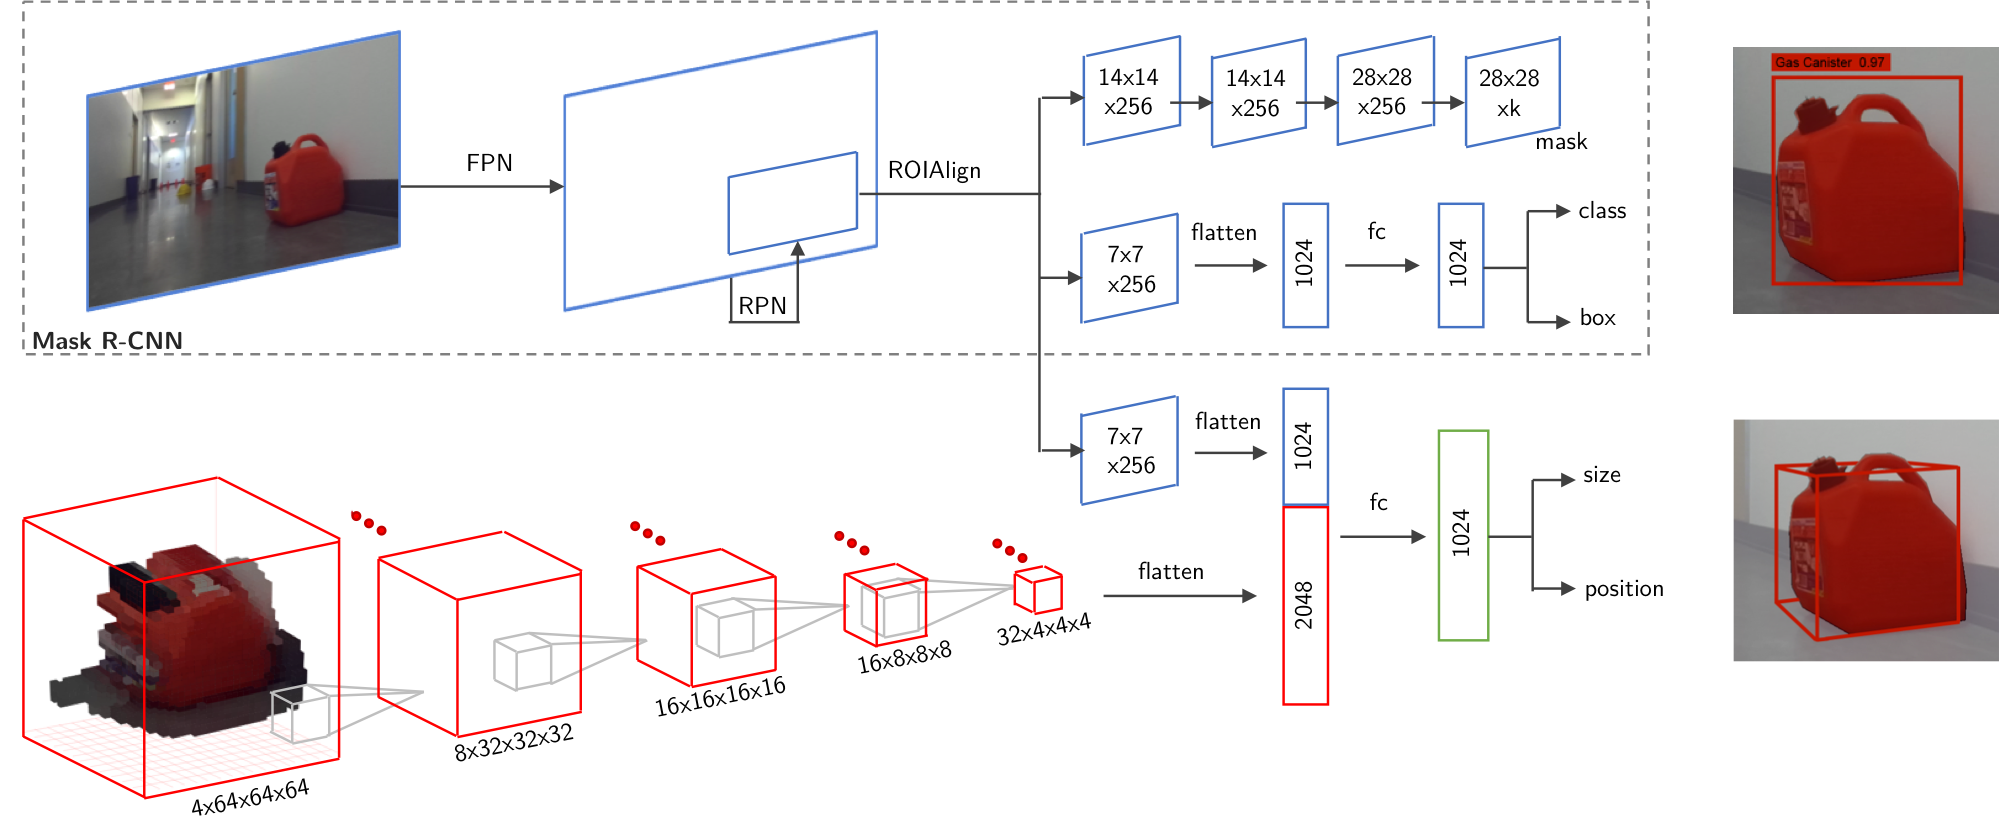
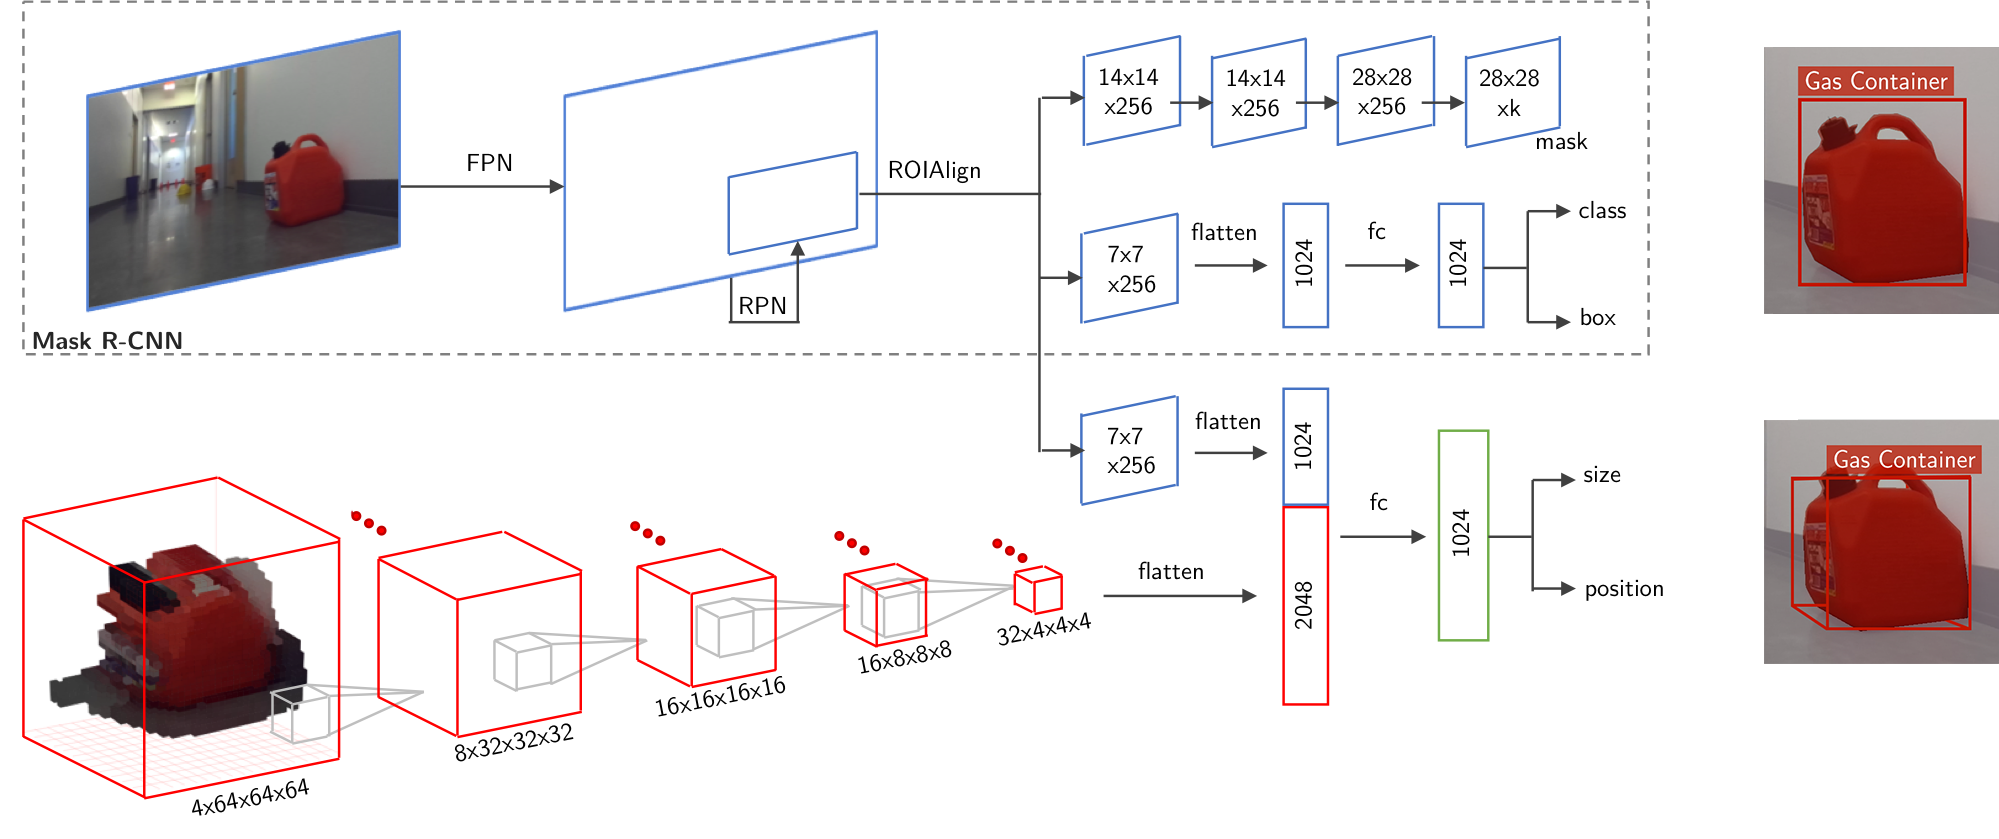
Minor spelling corrections

Changed region(s): [[0.8684, 0.031, 1.0, 0.3719], [0.8684, 0.4958, 1.0, 0.8057]]

diff --git a/src/method/index.html b/src/method/index.html
@@ -22,6 +22,7 @@
         <section class="mdc-toolbar__section mdc-toolbar__section--align-end">
           <div>
             <nav id="toolbar-tab-bar" class="mdc-tab-bar custom-tab-bar-in-toolbar mdc-tab-bar-upgraded">
+              <a class="mdc-tab mdc-ripple-upgraded" href="/">Overview</a>
               <a class="mdc-tab mdc-ripple-upgraded mdc-tab mdc-ripple-upgraded mdc-tab mdc-ripple-upgraded--foreground-activation mdc-tab--active" href="/method">Method</a>
               <a class="mdc-tab mdc-ripple-upgraded" href="/results">Results</a>
               <a class="mdc-tab mdc-ripple-upgraded" href="/robot">Robot</a>
@@ -79,7 +80,7 @@
             The core component of the proposed system is a computer vision algorithm which we refer to as Object R&#8209;CNN. Object R-CNN is designed to classify and localize objects of interest, using images captured by a camera on the mobile robot. We notice that 2D object detectors can easily detect a range of worksite objects, using RGB images:
           </p>
 
-          <!-- Figure 2: Theoretical framework -->
+          <!-- Figure 2: Mask R-CNN Results -->
           <div class="mdc-layout-grid">
             <div class="mdc-layout-grid__inner">
               <div class="mdc-card figure-card mdc-layout-grid__cell mdc-layout-grid__cell--span-8 mdc-shadow--2dp">
@@ -129,6 +130,24 @@
           </div>
 
           <p class="mdc-typography--body1">
+            Detections from Object R-CNN look similar to those from Mask R-CNN, but the position and size of each object in 3D space is also predicted.
+          </p>
+
+          <!-- Figure 2: Object R-CNN Results -->
+          <div class="mdc-layout-grid">
+            <div class="mdc-layout-grid__inner">
+              <div class="mdc-card figure-card mdc-layout-grid__cell mdc-layout-grid__cell--span-8 mdc-shadow--2dp">
+                <figure class="mdc-card__media">
+                  <img src="images/boxes3d.png" alt="The theoretical framework" />
+                </figure>
+                <div class="caption">
+                  <p class="mdc-typography--body2 mdc-typography--caption">3D object detection and 2D instance segmentation with the Object R&#8209;CNN object detector.</p>
+                </div>
+              </div>
+            </div>
+          </div>
+
+          <p class="mdc-typography--body1">
             When deployed to the mobile robot, the trained system can be used to detect objects, and automatically add them to a geometric model of the environment
           </p>
 
@@ -167,9 +186,9 @@
           <!-- Figure 6: <! Association -->
           <div class="mdc-layout-grid">
             <div class="mdc-layout-grid__inner">
-              <div class="mdc-card figure-card mdc-layout-grid__cell mdc-layout-grid__cell--span-12 mdc-shadow--2dp">
+              <div class="mdc-card figure-card mdc-layout-grid__cell mdc-layout-grid__cell--span-8 mdc-shadow--2dp">
                 <figure class="mdc-card__media">
-                  <img src="images/association.png" alt="The theoretical framework" />
+                  <img src="images/association-column.png" alt="The theoretical framework" />
                 </figure>
                 <div class="caption">
                   <p class="mdc-typography--body2 mdc-typography--caption">

diff --git a/src/index.html b/src/index.html
@@ -36,6 +36,7 @@
         <section class="mdc-toolbar__section mdc-toolbar__section--align-end">
           <div>
             <nav id="toolbar-tab-bar" class="mdc-tab-bar custom-tab-bar-in-toolbar mdc-tab-bar-upgraded">
+              <a class="mdc-tab mdc-ripple-upgraded mdc-ripple-upgraded--foreground-activation mdc-tab--active" href="/">Overview</a>
               <a class="mdc-tab mdc-ripple-upgraded" href="/method">Method</a>
               <a class="mdc-tab mdc-ripple-upgraded" href="/results">Results</a>
               <a class="mdc-tab mdc-ripple-upgraded" href="/robot">Robot</a>
@@ -69,7 +70,7 @@
           Automation in construction and facility management could significantly improve efficiency and productivity throughout the lifecycle of modern facilities. However, for robots and autonomous systems to operate in effectively in dynamic and unstructured environments such as a construction sites, they must be able to infer or obtain a semantic model of the environment.
         </p>
         <p class="mdc-typography--body1">
-          Previous efforts in Civil Engineering and Robotics have focused on developing static maps of the environment, often neglecting the possibility that objects can be moved. This project investigates how information from mobile robots can be used to dynamically update an existing model of the building environment with semantic-rich information. We develop a new 2D-3D computer vision to detect and localize common worksite objects, using RGB&#8209;D frames. We then propose using a multi-object Kalman filter to track objects across successive RGB-D frames to filter false-positive detections and refine position estimates.
+          Previous efforts in Civil Engineering and Robotics have focused on developing static maps of the environment, often neglecting the possibility that objects can be moved. This project investigates how information from mobile robots can be used to dynamically update an existing model of the building environment with semantic-rich information. We propose Object R-CNN, a new 2D-3D computer vision algorithm to detect and localize common worksite objects, using RGB&#8209;D frames. We then propose using a multi-object Kalman filter to track objects across successive RGB-D frames, allowing false-positive detections to be ignored and position estimates to be refined.
         </p>
       <section>
 
@@ -84,7 +85,7 @@
 
         <h2 class="demo-title mdc-typography--headline5">Source Code</h2>
         <p class="mdc-typography--body1">
-          SurfaceNet Source Code [<a href="#" title="Automation in Construction Paper">Coming Soon</a>]<br>
+          Object R-CNN Source Code [<a href="#" title="Automation in Construction Paper">Coming Soon</a>]<br>
           Mobile Robot Source Code [<a href="#" title="Automation in Construction Paper">Coming Soon</a>]<br>
       </section>
 

diff --git a/src/dataset/index.html b/src/dataset/index.html
@@ -23,10 +23,11 @@
         <section class="mdc-toolbar__section mdc-toolbar__section--align-end">
           <div>
             <nav id="toolbar-tab-bar" class="mdc-tab-bar custom-tab-bar-in-toolbar mdc-tab-bar-upgraded">
+              <a class="mdc-tab mdc-ripple-upgraded" href="/">Overview</a>
               <a class="mdc-tab mdc-ripple-upgraded" href="/method">Method</a>
               <a class="mdc-tab mdc-ripple-upgraded" href="/results">Results</a>
               <a class="mdc-tab mdc-ripple-upgraded" href="/robot">Robot</a>
-              <a class="mdc-tab mdc-ripple-upgraded mdc-tab mdc-ripple-upgraded mdc-tab mdc-ripple-upgraded--foreground-activation mdc-tab--active" href="/dataset">Dataset</a>
+              <a class="mdc-tab mdc-ripple-upgraded mdc-ripple-upgraded--foreground-activation mdc-tab--active" href="/dataset">Dataset</a>
               <span class="mdc-tab-bar__indicator"></span>
             </nav>
           </div>
@@ -40,9 +41,9 @@
           <div class="demo-content mdc-color--white mdc-shadow--4dp content mdc-color-text--grey-800 mdc-cell mdc-layout-grid__cell--span-12">
             <h1 class="demo-title mdc-typography--headline4">Dataset</h1>
             <p class="mdc-typography--body1">
-              A dataset was collected using the purpose-built mobile robot. The dataset includes 6121 RGB-D labelled objects across 1007 images. Objects are labelled with 2D segmentation masks and 3D bounding boxes.
+              A dataset was collected using the purpose-built mobile robot. The dataset includes 6121 RGB-D labeled objects across 1007 images. Objects are labeled with 2D segmentation masks and 3D bounding boxes.
             </p><p class="mdc-typography--body1">
-              The dataset is split into test and train sequences. The training sequence contains 5121 objects labelled across 821 RGB-D images. The test set consists of a further 1010 objects annotated across 186 images.
+              The dataset is split into test and train sequences. The training sequence contains 5121 objects labeled across 821 RGB-D images. The test set consists of a further 1010 objects annotated across 186 images.
             </p>
 
             <div class="mdc-layout-grid">

diff --git a/src/results/index.html b/src/results/index.html
@@ -29,6 +29,7 @@
         <section class="mdc-toolbar__section mdc-toolbar__section--align-end">
           <div>
             <nav id="toolbar-tab-bar" class="mdc-tab-bar custom-tab-bar-in-toolbar mdc-tab-bar-upgraded">
+              <a class="mdc-tab mdc-ripple-upgraded" href="/">Overview</a>
               <a class="mdc-tab mdc-ripple-upgraded" href="/method">Method</a>
               <a class="mdc-tab mdc-ripple-upgraded mdc-tab mdc-ripple-upgraded--foreground-activation mdc-tab--active" href="/results">Results</a>
               <a class="mdc-tab mdc-ripple-upgraded" href="/robot">Robot</a>
@@ -45,7 +46,7 @@
         <h1 class="mdc-typography--headline4">Results</h1>
         <p class="mdc-typography--body1">
           The proposed system is evaluated qualitatively and quantitatively.
-          One of the core compoments is an novel 3D object detection method, named Object R-CNN.
+          One of the core components is an novel 3D object detection method, namely Object R-CNN.
           Below, we compare the output of Object R-CNN the state-of-the-art Mask R-CNN architecture.
         </p>
 
@@ -82,7 +83,7 @@
           <div class="mdc-layout-grid__inner">
             <div class="mdc-card figure-card mdc-layout-grid__cell mdc-layout-grid__cell--span-12 mdc-shadow--2dp">
               <figure class="mdc-card__media">
-                <img src="images/comparison3.png" alt="The theoretical framework" />
+                <img src="images/comparison3.png" alt="Object R-CNN vs Mask R-CNN" />
               </figure>
               <div class="caption">
                 <p class="mdc-typography--body2 mdc-typography--caption">Comparison of worksite object detection using Mask R-CNN and Object R-CNN (ours).</p>

diff --git a/src/robot/index.html b/src/robot/index.html
@@ -23,6 +23,7 @@
         <section class="mdc-toolbar__section mdc-toolbar__section--align-end">
           <div>
             <nav id="toolbar-tab-bar" class="mdc-tab-bar custom-tab-bar-in-toolbar mdc-tab-bar-upgraded">
+              <a class="mdc-tab mdc-ripple-upgraded" href="/">Overview</a>
               <a class="mdc-tab mdc-ripple-upgraded" href="/method">Method</a>
               <a class="mdc-tab mdc-ripple-upgraded" href="/results">Results</a>
               <a class="mdc-tab mdc-ripple-upgraded--foreground-activation mdc-tab--active" href="/robot">Robot</a>
